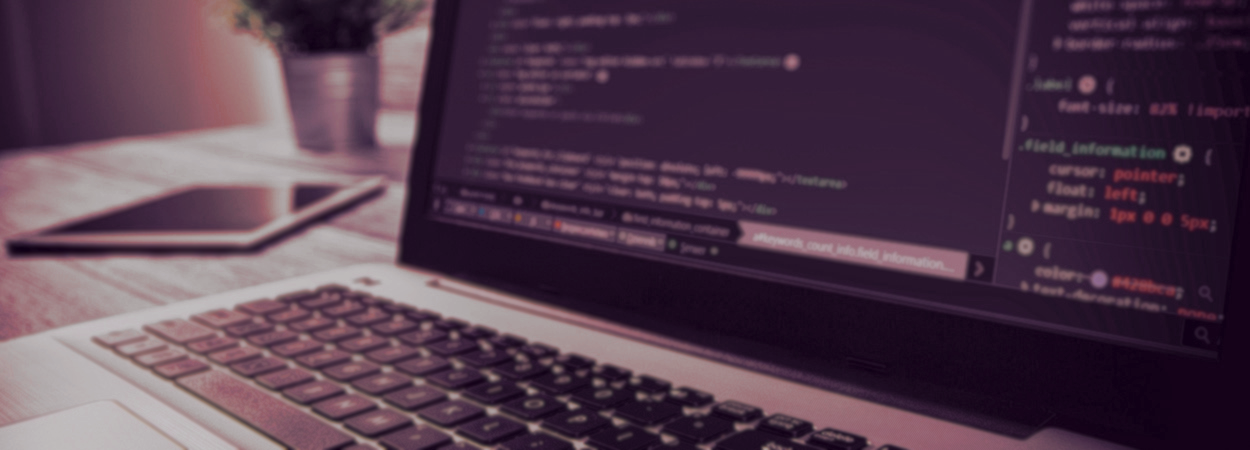
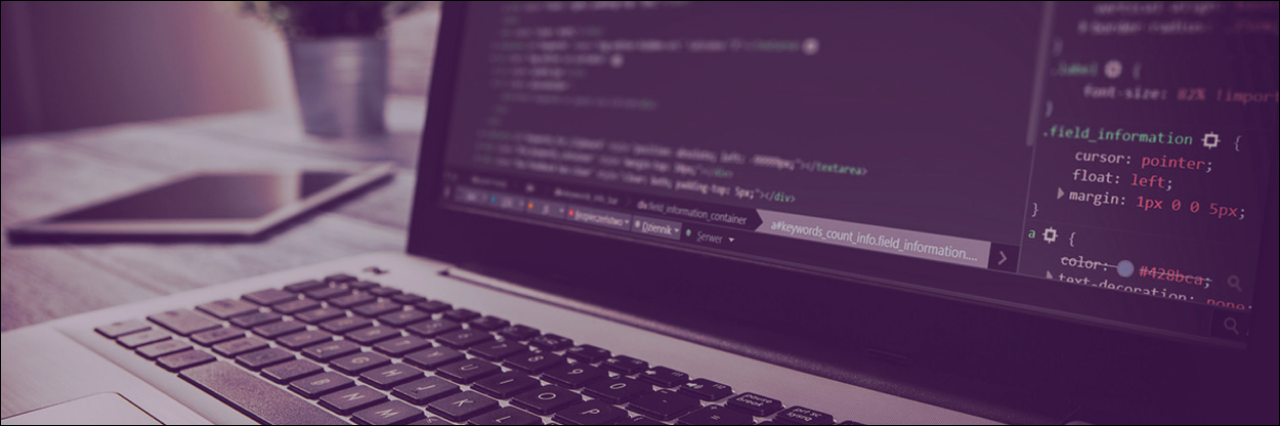
New background added

diff --git a/src/components/Intro.tsx b/src/components/Intro.tsx
@@ -2,7 +2,6 @@ import React, { useEffect, useState } from 'react';
 import { Badge, Col, Row, Button } from 'react-bootstrap';
 import introPic from '../media/introPic.png';
 import LangText from './LangText';
-import downArrow from '../media/down_arrow.svg';
 import {learnMoreAnimIn, learnMoreAnimOut} from '../animations/animations' 
 
 
@@ -10,20 +9,20 @@ function Intro(props:any) {
 
     return (
         <>
-        <Row>
+        <Row className='h-100vh section'>
             <Col className='introBanner p-0 bg-primary'>
                 <div className='w-25em mx-auto introContent'>
                     <Row>
                         <img src={introPic} className='introPic mx-auto mb-3'></img>
                     </Row>
                     <Row className='mb-3'>
-                        <h1 className='fw-bold display-5 text-center lh-1 m-0'>Vinicius de Castro</h1>
-                        <h2 className='text-secondary display-7 text-center lh-1'>Web developer</h2>
+                        <h1 className='fw-bold display-5 text-center lh-1 m-0 text-stroke'>Vinicius de Castro</h1>
+                        <h2 className='text-secondary display-7 text-center lh-1 text-stroke'>Web developer</h2>
                     </Row>
                     <Row>
                         <LangText
-                        className='fs-4 text-center'
-                        en={<p><span className='fw-bold text-primary'>Front-end developer</span> whom loves to create interfaces and work with logic. I have been developing websites and softwares for about two years.</p>}
+                        className='fs-4 text-center text-stroke'
+                        en={<p><span className='fw-bold text-primary '>Front-end developer</span> whom loves to create interfaces and work with logic. I have been developing websites and softwares for about two years.</p>}
                         pt={<p><span className='fw-bold text-primary'>Desenvolvedor front-end</span> que ama criar interfaces e trabalhar com lógica. Tenho desenvolvido programas e sites por dois anos.</p>}
                         />
                     </Row>

diff --git a/src/stylesheets/main.scss b/src/stylesheets/main.scss
@@ -4,9 +4,13 @@ body{
     font-family: 'Open Sans', sans-serif;
 }
 
+.section{
+    background-image: url(../media/Sprinkle.svg);
+}
+
 .introBanner{
 
-    height: 13em;
+    height: 16em;
     background-image: url(../media/header.png);
     background-size: cover;   
 }
@@ -30,7 +34,7 @@ body{
 
 .introContent{
 
-    margin-top: 7vh;
+    margin-top: 8vh;
 }
 
 .introPic{
@@ -43,6 +47,18 @@ body{
 
 .w-25em{
     width: 35em;
+}
+
+.text-stroke{
+    text-shadow: 
+    3px 0 0 #fafafa,
+    -3px 0 0 #fafafa,
+    0 3px 0 #fafafa,
+    0 -3px 0 #fafafa,
+    3px 3px #fafafa,
+    -3px -3px 0 #fafafa,
+    3px -3px 0 #fafafa,
+    -3px 3px 0 #fafafa;
 }
 
 

diff --git a/src/animations/animations.ts b/src/animations/animations.ts
@@ -19,12 +19,12 @@ const learnMoreAnimIn = () =>{
   })
   .add({
     targets: '.learn-more-btn',
-    color: '#FFFFFF',
+    color: '#fafafa',
     duration: 100
   },'-=100')
   .add({
     targets: '.lm-btn-darrow',
-    backgroundColor: '#FFFFFF'
+    backgroundColor: '#fafafa'
   }, '-=100')
   .add({
     targets: '.learn-more-btn',
@@ -39,7 +39,7 @@ const learnMoreAnimOut = () =>{
   tl
   .add({
     targets: '.learn-more-btn',
-    backgroundColor: '#FFFFFF', 
+    backgroundColor: '#fafafa', 
     duration: 100
   })
   .add({

diff --git a/src/stylesheets/custom-bootstrap.scss b/src/stylesheets/custom-bootstrap.scss
@@ -7,7 +7,7 @@
 // 2. Include any default variable overrides here
 $primary: #7B4289;
 $secondary: #7A7A7A;
-$light: #F5F5F5;
+$light: #fafafa;
 // 3. Include remainder of required Bootstrap stylesheets
 @import "~bootstrap/scss/variables";
 @import "~bootstrap/scss/mixins";
